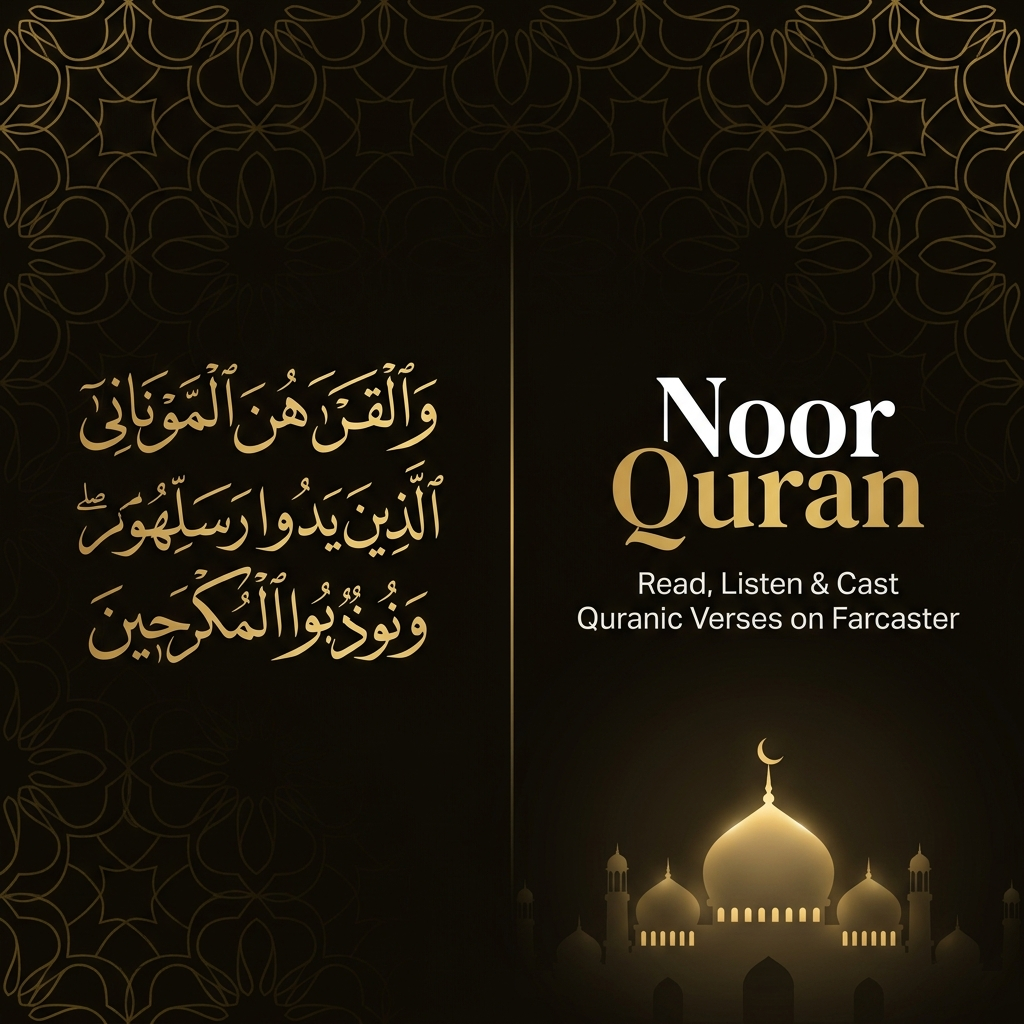
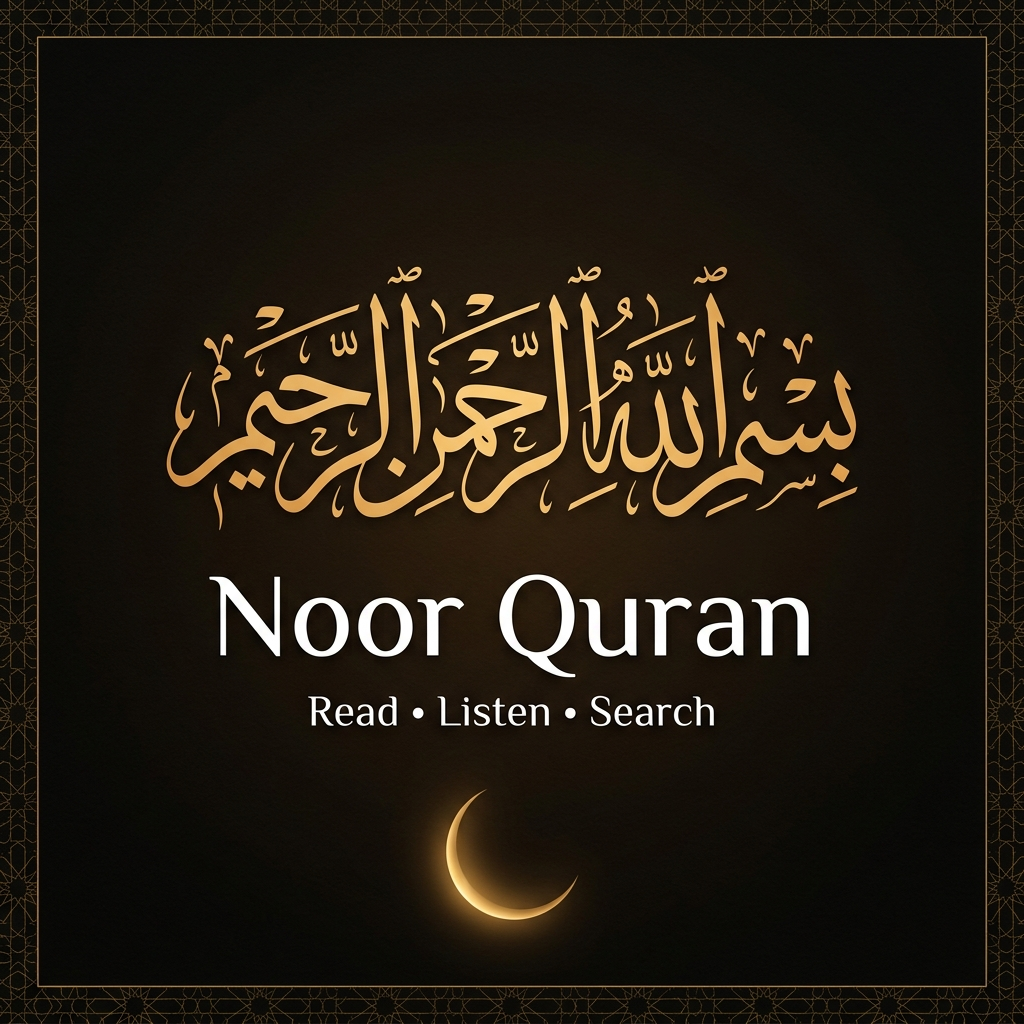
fix: replace garish red OG image with dark brand image; remove verse max-height
- og-image-3x2.png: replaced abstract red/colorful AI art with a dark
  elegant branded image (dark bg + gold Arabic calligraphy + Noor Quran
  branding) so the Farcaster split-view panel looks intentional not broken
- QuranReader.tsx: removed max-h-[80vh] constraint from verse container
  so website shows ALL verses with natural page scroll instead of a
  nested inner scrollbox that hides most of the content

diff --git a/frontend/src/components/QuranReader.tsx b/frontend/src/components/QuranReader.tsx
@@ -462,7 +462,7 @@ export const QuranReader: React.FC = () => {
 
         {/* Quran Text Scroll */}
         {!isLoading && (
-          <div className="flex flex-col gap-4 max-h-[80vh] overflow-y-auto pr-2 custom-scrollbar">
+          <div className="flex flex-col gap-4 pr-2">
             {verses.map((verse) => {
               const hasIndividualToggle = individualToggles[verse.verse_number] !== undefined;
               const isTranslationVisible = hasIndividualToggle 
